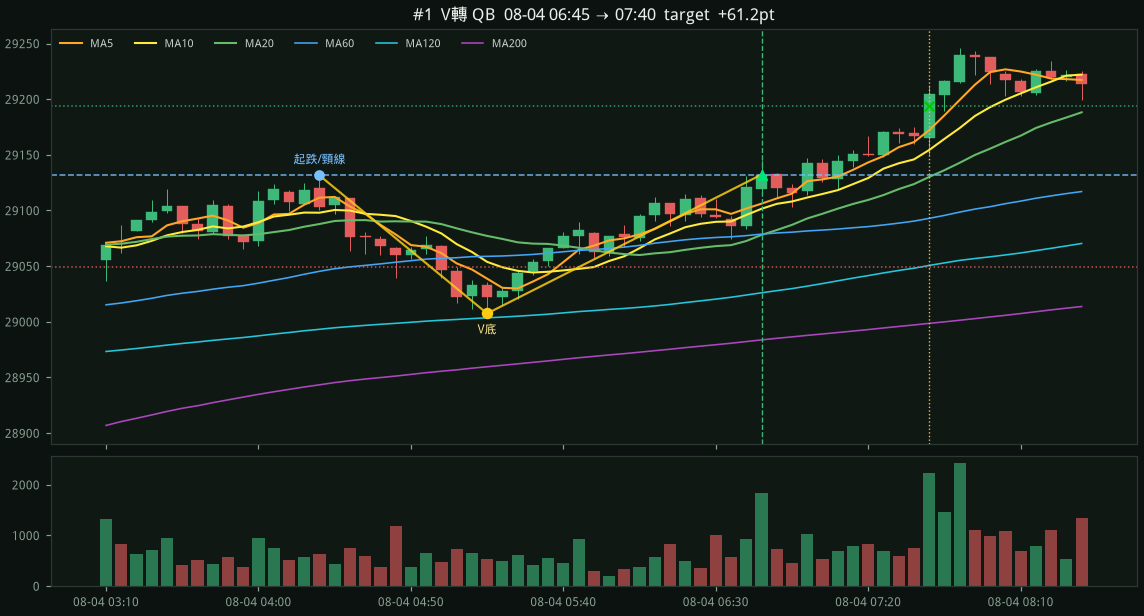
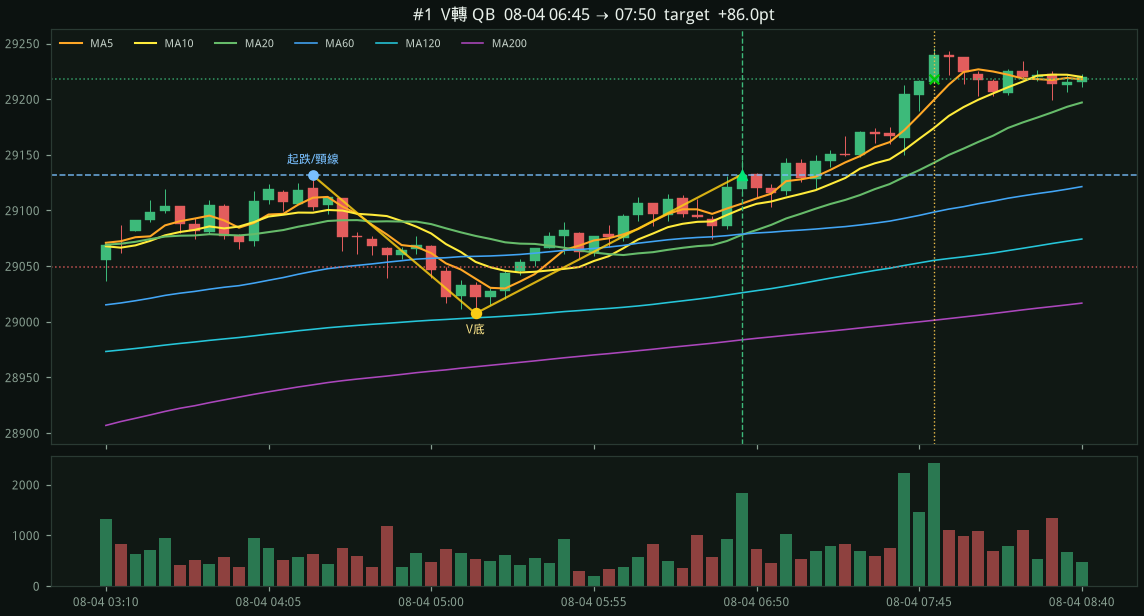
Widen V-turn target from 1.5x to 1.7x dump
Neckline plus 0.7x dump still hits the 08-27 high (+86.5). The one-month
sample stays 3/3 targets and rises from +180 to +259 points. 1.8x misses
that V by a few points.

diff --git a/docs/nq-v-turn/view.html b/docs/nq-v-turn/view.html
@@ -34,38 +34,38 @@ h1{font-size:18px;margin:0 0 6px}
 <section class="summary">
 <h1>NQ=F 五分 K V轉</h1>
 <p class="muted">30d · 2026-07-26 18:10 → 2026-08-28 12:25 ET · bars=6807</p>
-<p class="muted">16~28 根急跌（≥120 點 / 4 ATR）、尖底不盤。頸線=起跌高，右腿第一次回到頸線（≥98%）且時間為左腿的 0.65~1.40 倍。停損右腿回撤，目標頸線再延伸 0.5× dump。含 ETH，09:30–10:00 不進。</p>
+<p class="muted">16~28 根急跌（≥120 點 / 4 ATR）、尖底不盤。頸線=起跌高，右腿第一次回到頸線（≥98%）且時間為左腿的 0.65~1.40 倍。停損右腿回撤，目標頸線再延伸 0.7× dump。含 ETH，09:30–10:00 不進。</p>
 <p class='muted'><b>有料：頸線兩邊對稱的 V 比接刀清楚。假 V（回到頸線後再破底）仍會一次吐回去。</b></p>
 <div class="cards">
 <div class="card">筆數<b>3</b></div>
 <div class="card">勝率<b>100.0%</b></div>
-<div class="card">總點數<b class="pnl-win">+179.5</b></div>
-<div class="card">均筆<b>+59.8</b></div>
+<div class="card">總點數<b class="pnl-win">+258.6</b></div>
+<div class="card">均筆<b>+86.2</b></div>
 </div>
-<p class="muted">QA 1筆 +56.5 · QB 2筆 +123.0</p>
+<p class="muted">QA 1筆 +86.5 · QB 2筆 +172.1</p>
 <p class='muted'>漏斗：急跌 309 → 回補頸線 24 → 進場 3（新低打斷 266 · 太早 13 · 不對稱 26 · 太慢 0 · 紅K 1 · MA5 0 · 開盤 0 · 風險 7）</p>
-<div class="equity"><svg viewBox="0 0 720 180" width="100%" style="background:#0f172a;border-radius:8px"><line x1="0" y1="162.6" x2="720" y2="162.6" stroke="#334155" stroke-dasharray="4 4"/><polyline fill="none" stroke="#16a34a" stroke-width="2" points="0.0,162.6 240.0,113.0 480.0,63.1 720.0,17.4"/></svg></div>
+<div class="equity"><svg viewBox="0 0 720 180" width="100%" style="background:#0f172a;border-radius:8px"><line x1="0" y1="162.6" x2="720" y2="162.6" stroke="#334155" stroke-dasharray="4 4"/><polyline fill="none" stroke="#16a34a" stroke-width="2" points="0.0,162.6 240.0,114.3 480.0,66.0 720.0,17.4"/></svg></div>
 </section>
-<article class='trade-card'><header class='card-header'><div class='card-title'><span class='trade-no'>#1 · QB</span><span class='trade-time'>2026-08-04 06:45 → 08-04 07:40</span></div><div class='card-pnl pnl-win'>+61.2 pts</div></header><div class='tags'><span class='tag tag-tp'>target</span><span class='tag tag-info'>5m V轉</span><span class='tag tag-info'>QB</span></div><pre class='trade-detail'>entry 29132.25
+<article class='trade-card'><header class='card-header'><div class='card-title'><span class='trade-no'>#1 · QB</span><span class='trade-time'>2026-08-04 06:45 → 08-04 07:50</span></div><div class='card-pnl pnl-win'>+86.0 pts</div></header><div class='tags'><span class='tag tag-tp'>target</span><span class='tag tag-info'>5m V轉</span><span class='tag tag-info'>QB</span></div><pre class='trade-detail'>entry 29132.25
 stop  29049.50  (−82.8 pts)
-target 29193.50  (0.7R)
-exit  29193.50  target
+target 29218.30  (1.0R)
+exit  29218.30  target
 V底 08-04 05:15  29007.50
 頸線 29131.50  兩邊 1.12× 時間 / 101% 高度
 dump 124pt / 5.1ATR  右腿 18 根
 速度 0.89×  量 1.0×
-MA5 29106.2 / MA20 29078.1</pre><div class='mini-chart'><img src='https://raw.githubusercontent.com/yubogoodman-droid/NQ/cursor/nq-5m-v-turn-4941/docs/nq-v-turn/img/t01_0804_0645_qb.png' alt='#1 QB' style='width:100%;display:block;border-radius:10px'/></div></article><article class='trade-card'><header class='card-header'><div class='card-title'><span class='trade-no'>#2 · QB</span><span class='trade-time'>2026-08-26 14:05 → 08-26 15:00</span></div><div class='card-pnl pnl-win'>+61.8 pts</div></header><div class='tags'><span class='tag tag-tp'>target</span><span class='tag tag-info'>5m V轉</span><span class='tag tag-info'>QB</span></div><pre class='trade-detail'>entry 29290.50
+MA5 29106.2 / MA20 29078.1</pre><div class='mini-chart'><img src='https://raw.githubusercontent.com/yubogoodman-droid/NQ/cursor/nq-5m-v-turn-4941/docs/nq-v-turn/img/t01_0804_0645_qb.png' alt='#1 QB' style='width:100%;display:block;border-radius:10px'/></div></article><article class='trade-card'><header class='card-header'><div class='card-title'><span class='trade-no'>#2 · QB</span><span class='trade-time'>2026-08-26 14:05 → 08-26 16:15</span></div><div class='card-pnl pnl-win'>+86.0 pts</div></header><div class='tags'><span class='tag tag-tp'>target</span><span class='tag tag-info'>5m V轉</span><span class='tag tag-info'>QB</span></div><pre class='trade-detail'>entry 29290.50
 stop  29209.75  (−80.8 pts)
-target 29352.25  (0.8R)
-exit  29352.25  target
+target 29376.55  (1.1R)
+exit  29376.55  target
 V底 08-26 12:40  29170.00
 頸線 29291.50  兩邊 1.06× 時間 / 99% 高度
 dump 122pt / 4.7ATR  右腿 17 根
 速度 0.93×  量 0.6×
-MA5 29281.8 / MA20 29244.8</pre><div class='mini-chart'><img src='https://raw.githubusercontent.com/yubogoodman-droid/NQ/cursor/nq-5m-v-turn-4941/docs/nq-v-turn/img/t02_0826_1405_qb.png' alt='#2 QB' style='width:100%;display:block;border-radius:10px'/></div></article><article class='trade-card'><header class='card-header'><div class='card-title'><span class='trade-no'>#3 · QA</span><span class='trade-time'>2026-08-27 04:00 → 08-27 04:25</span></div><div class='card-pnl pnl-win'>+56.5 pts</div></header><div class='tags'><span class='tag tag-tp'>target</span><span class='tag tag-info'>5m V轉</span><span class='tag tag-info'>QA</span></div><pre class='trade-detail'>entry 29570.25
+MA5 29281.8 / MA20 29244.8</pre><div class='mini-chart'><img src='https://raw.githubusercontent.com/yubogoodman-droid/NQ/cursor/nq-5m-v-turn-4941/docs/nq-v-turn/img/t02_0826_1405_qb.png' alt='#2 QB' style='width:100%;display:block;border-radius:10px'/></div></article><article class='trade-card'><header class='card-header'><div class='card-title'><span class='trade-no'>#3 · QA</span><span class='trade-time'>2026-08-27 04:00 → 08-27 04:25</span></div><div class='card-pnl pnl-win'>+86.5 pts</div></header><div class='tags'><span class='tag tag-tp'>target</span><span class='tag tag-info'>5m V轉</span><span class='tag tag-info'>QA</span></div><pre class='trade-detail'>entry 29570.25
 stop  29469.25  (−101.0 pts)
-target 29626.75  (0.6R)
-exit  29626.75  target
+target 29656.75  (0.9R)
+exit  29656.75  target
 V底 08-27 02:10  29401.75
 頸線 29551.75  兩邊 0.95× 時間 / 112% 高度
 dump 150pt / 6.5ATR  右腿 21 根

diff --git a/docs/nq-v-turn/index.html b/docs/nq-v-turn/index.html
@@ -34,38 +34,38 @@ h1{font-size:18px;margin:0 0 6px}
 <section class="summary">
 <h1>NQ=F 五分 K V轉</h1>
 <p class="muted">30d · 2026-07-26 18:10 → 2026-08-28 12:25 ET · bars=6807</p>
-<p class="muted">16~28 根急跌（≥120 點 / 4 ATR）、尖底不盤。頸線=起跌高，右腿第一次回到頸線（≥98%）且時間為左腿的 0.65~1.40 倍。停損右腿回撤，目標頸線再延伸 0.5× dump。含 ETH，09:30–10:00 不進。</p>
+<p class="muted">16~28 根急跌（≥120 點 / 4 ATR）、尖底不盤。頸線=起跌高，右腿第一次回到頸線（≥98%）且時間為左腿的 0.65~1.40 倍。停損右腿回撤，目標頸線再延伸 0.7× dump。含 ETH，09:30–10:00 不進。</p>
 <p class='muted'><b>有料：頸線兩邊對稱的 V 比接刀清楚。假 V（回到頸線後再破底）仍會一次吐回去。</b></p>
 <div class="cards">
 <div class="card">筆數<b>3</b></div>
 <div class="card">勝率<b>100.0%</b></div>
-<div class="card">總點數<b class="pnl-win">+179.5</b></div>
-<div class="card">均筆<b>+59.8</b></div>
+<div class="card">總點數<b class="pnl-win">+258.6</b></div>
+<div class="card">均筆<b>+86.2</b></div>
 </div>
-<p class="muted">QA 1筆 +56.5 · QB 2筆 +123.0</p>
+<p class="muted">QA 1筆 +86.5 · QB 2筆 +172.1</p>
 <p class='muted'>漏斗：急跌 309 → 回補頸線 24 → 進場 3（新低打斷 266 · 太早 13 · 不對稱 26 · 太慢 0 · 紅K 1 · MA5 0 · 開盤 0 · 風險 7）</p>
-<div class="equity"><svg viewBox="0 0 720 180" width="100%" style="background:#0f172a;border-radius:8px"><line x1="0" y1="162.6" x2="720" y2="162.6" stroke="#334155" stroke-dasharray="4 4"/><polyline fill="none" stroke="#16a34a" stroke-width="2" points="0.0,162.6 240.0,113.0 480.0,63.1 720.0,17.4"/></svg></div>
+<div class="equity"><svg viewBox="0 0 720 180" width="100%" style="background:#0f172a;border-radius:8px"><line x1="0" y1="162.6" x2="720" y2="162.6" stroke="#334155" stroke-dasharray="4 4"/><polyline fill="none" stroke="#16a34a" stroke-width="2" points="0.0,162.6 240.0,114.3 480.0,66.0 720.0,17.4"/></svg></div>
 </section>
-<article class='trade-card'><header class='card-header'><div class='card-title'><span class='trade-no'>#1 · QB</span><span class='trade-time'>2026-08-04 06:45 → 08-04 07:40</span></div><div class='card-pnl pnl-win'>+61.2 pts</div></header><div class='tags'><span class='tag tag-tp'>target</span><span class='tag tag-info'>5m V轉</span><span class='tag tag-info'>QB</span></div><pre class='trade-detail'>entry 29132.25
+<article class='trade-card'><header class='card-header'><div class='card-title'><span class='trade-no'>#1 · QB</span><span class='trade-time'>2026-08-04 06:45 → 08-04 07:50</span></div><div class='card-pnl pnl-win'>+86.0 pts</div></header><div class='tags'><span class='tag tag-tp'>target</span><span class='tag tag-info'>5m V轉</span><span class='tag tag-info'>QB</span></div><pre class='trade-detail'>entry 29132.25
 stop  29049.50  (−82.8 pts)
-target 29193.50  (0.7R)
-exit  29193.50  target
+target 29218.30  (1.0R)
+exit  29218.30  target
 V底 08-04 05:15  29007.50
 頸線 29131.50  兩邊 1.12× 時間 / 101% 高度
 dump 124pt / 5.1ATR  右腿 18 根
 速度 0.89×  量 1.0×
-MA5 29106.2 / MA20 29078.1</pre><div class='mini-chart'><img src='img/t01_0804_0645_qb.png' alt='#1 QB' style='width:100%;display:block;border-radius:10px'/></div></article><article class='trade-card'><header class='card-header'><div class='card-title'><span class='trade-no'>#2 · QB</span><span class='trade-time'>2026-08-26 14:05 → 08-26 15:00</span></div><div class='card-pnl pnl-win'>+61.8 pts</div></header><div class='tags'><span class='tag tag-tp'>target</span><span class='tag tag-info'>5m V轉</span><span class='tag tag-info'>QB</span></div><pre class='trade-detail'>entry 29290.50
+MA5 29106.2 / MA20 29078.1</pre><div class='mini-chart'><img src='img/t01_0804_0645_qb.png' alt='#1 QB' style='width:100%;display:block;border-radius:10px'/></div></article><article class='trade-card'><header class='card-header'><div class='card-title'><span class='trade-no'>#2 · QB</span><span class='trade-time'>2026-08-26 14:05 → 08-26 16:15</span></div><div class='card-pnl pnl-win'>+86.0 pts</div></header><div class='tags'><span class='tag tag-tp'>target</span><span class='tag tag-info'>5m V轉</span><span class='tag tag-info'>QB</span></div><pre class='trade-detail'>entry 29290.50
 stop  29209.75  (−80.8 pts)
-target 29352.25  (0.8R)
-exit  29352.25  target
+target 29376.55  (1.1R)
+exit  29376.55  target
 V底 08-26 12:40  29170.00
 頸線 29291.50  兩邊 1.06× 時間 / 99% 高度
 dump 122pt / 4.7ATR  右腿 17 根
 速度 0.93×  量 0.6×
-MA5 29281.8 / MA20 29244.8</pre><div class='mini-chart'><img src='img/t02_0826_1405_qb.png' alt='#2 QB' style='width:100%;display:block;border-radius:10px'/></div></article><article class='trade-card'><header class='card-header'><div class='card-title'><span class='trade-no'>#3 · QA</span><span class='trade-time'>2026-08-27 04:00 → 08-27 04:25</span></div><div class='card-pnl pnl-win'>+56.5 pts</div></header><div class='tags'><span class='tag tag-tp'>target</span><span class='tag tag-info'>5m V轉</span><span class='tag tag-info'>QA</span></div><pre class='trade-detail'>entry 29570.25
+MA5 29281.8 / MA20 29244.8</pre><div class='mini-chart'><img src='img/t02_0826_1405_qb.png' alt='#2 QB' style='width:100%;display:block;border-radius:10px'/></div></article><article class='trade-card'><header class='card-header'><div class='card-title'><span class='trade-no'>#3 · QA</span><span class='trade-time'>2026-08-27 04:00 → 08-27 04:25</span></div><div class='card-pnl pnl-win'>+86.5 pts</div></header><div class='tags'><span class='tag tag-tp'>target</span><span class='tag tag-info'>5m V轉</span><span class='tag tag-info'>QA</span></div><pre class='trade-detail'>entry 29570.25
 stop  29469.25  (−101.0 pts)
-target 29626.75  (0.6R)
-exit  29626.75  target
+target 29656.75  (0.9R)
+exit  29656.75  target
 V底 08-27 02:10  29401.75
 頸線 29551.75  兩邊 0.95× 時間 / 112% 高度
 dump 150pt / 6.5ATR  右腿 21 根

diff --git a/examples/nq_v_turn.py b/examples/nq_v_turn.py
@@ -5,7 +5,7 @@
   1. 16~28 根內從左側高點灌到右側低點，深度 ≥ max(120 點, 4 ATR)
   2. 底部不盤（靠近低點的 K ≤ 3 根）—— V 不是 U、不是 W
   3. 頸線 = 起跌高點；右腿第一次回到頸線（回補 ≥ 98%）時，右腿 K 數須為左腿的 0.65~1.40 倍
-  4. 收紅站上 MA5 做多。停損用右腿回撤低，目標頸線再延伸 0.5× dump
+  4. 收紅站上 MA5 做多。停損用右腿回撤低，目標頸線再延伸 0.7× dump
 
 含 ETH（那筆 V 在凌晨）；RTH 09:30–10:00 開盤噪音不進。
 
@@ -254,7 +254,7 @@ def detect_signals(
     left_high_frac: float = 0.40,
     vol_lookback: int = 20,
     stop_buffer: float = 8.0,
-    target_dump_mult: float = 1.5,
+    target_dump_mult: float = 1.7,
     max_risk: float = 120.0,
     min_entry_gap: int = 24,
     skip_rth_open: bool = True,
@@ -758,7 +758,7 @@ h1{{font-size:18px;margin:0 0 6px}}
 <section class="summary">
 <h1>{escape(symbol)} 五分 K V轉</h1>
 <p class="muted">{escape(period)} · {escape(start)} → {escape(end)} ET · bars={len(df)}</p>
-<p class="muted">16~28 根急跌（≥120 點 / 4 ATR）、尖底不盤。頸線=起跌高，右腿第一次回到頸線（≥98%）且時間為左腿的 0.65~1.40 倍。停損右腿回撤，目標頸線再延伸 0.5× dump。含 ETH，09:30–10:00 不進。</p>
+<p class="muted">16~28 根急跌（≥120 點 / 4 ATR）、尖底不盤。頸線=起跌高，右腿第一次回到頸線（≥98%）且時間為左腿的 0.65~1.40 倍。停損右腿回撤，目標頸線再延伸 0.7× dump。含 ETH，09:30–10:00 不進。</p>
 {verdict_html}
 <div class="cards">
 <div class="card">筆數<b>{stats['count']}</b></div>

diff --git a/examples/test_nq_v_turn.py b/examples/test_nq_v_turn.py
@@ -130,6 +130,7 @@ def test_detect_v_bounce() -> None:
     assert sig.entry_price > sig.stop_price
     assert sig.entry_price > sig.ma5
     assert sig.target_price > sig.entry_price
+    assert abs(sig.target_price - (sig.dump_low + 1.7 * sig.drop_pts)) < 1.0
 
 
 def test_no_signal_on_continued_dump() -> None:

diff --git a/README.md b/README.md
@@ -26,7 +26,7 @@
 
 圖上那種 **急跌 → 尖底 → 幾乎原速拉回**（2026-08-27 ETH：29401.75 → 29662）。  
 16~28 根內從左側高點灌到右側低點（≥120 點 / 4 ATR），底部不盤；**頸線=起跌高，兩邊要差不多**（右腿第一次回到頸線 ≥98%，時間為左腿的 0.65~1.40 倍），收紅站上 MA5 做多。  
-停損右腿回撤低，目標頸線再延伸 0.5× dump。含盤外；09:30–10:00 不進。
+停損右腿回撤低，目標頸線再延伸 0.7× dump。含盤外；09:30–10:00 不進。
 
 ```bash
 python3 examples/nq_v_turn.py backtest --period 30d --pages
@@ -36,9 +36,9 @@ python3 examples/test_nq_v_turn.py
 
 TradingView：`pinescript/nq_v_turn_5m.pine` 貼到 NQ1! / MNQ1! 五分圖。
 
-近一個月 Yahoo 五分（2026-07-26 → 08-28）：**3 筆、勝率 100%、+179.5 點**，全部打到目標。  
-08-27 02:10 V底 → 04:00 回到頸線進場，目標 **+56.5**（兩邊時間 0.95×）。  
-60 天多一筆 06-22 停損 −110.5，變成 **4 筆、勝率 75%、+69 點**。
+近一個月 Yahoo 五分（2026-07-26 → 08-28）：**3 筆、勝率 100%、+258.6 點**，全部打到目標（1.7× dump）。  
+08-27 02:10 V底 → 04:00 回到頸線進場，目標 **+86.5**（兩邊時間 0.95×）。  
+1.8× 起 08-27 那筆摸不到（高點只到 +92）；60 天多一筆 06-22 停損 −110.5。
 
 預覽：https://htmlpreview.github.io/?https://raw.githubusercontent.com/yubogoodman-droid/NQ/cursor/nq-5m-v-turn-4941/docs/nq-v-turn/view.html
 
